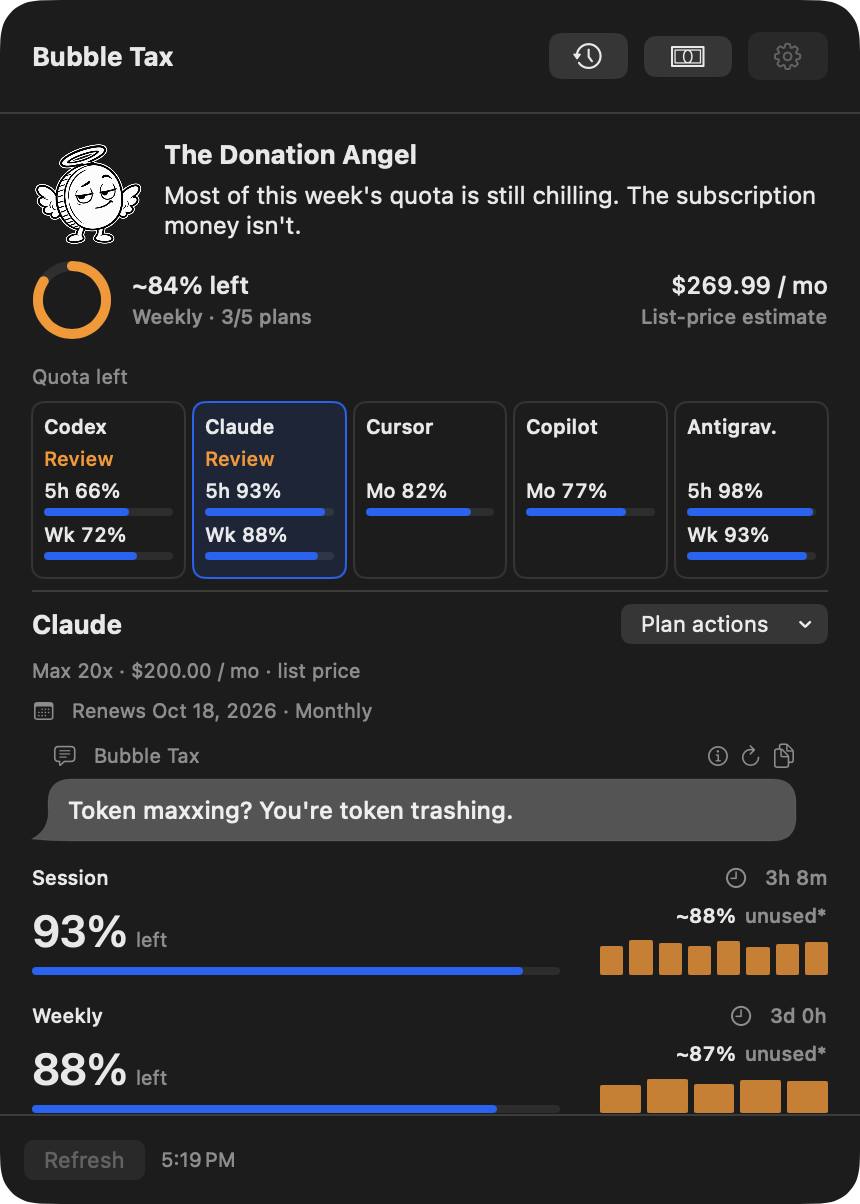
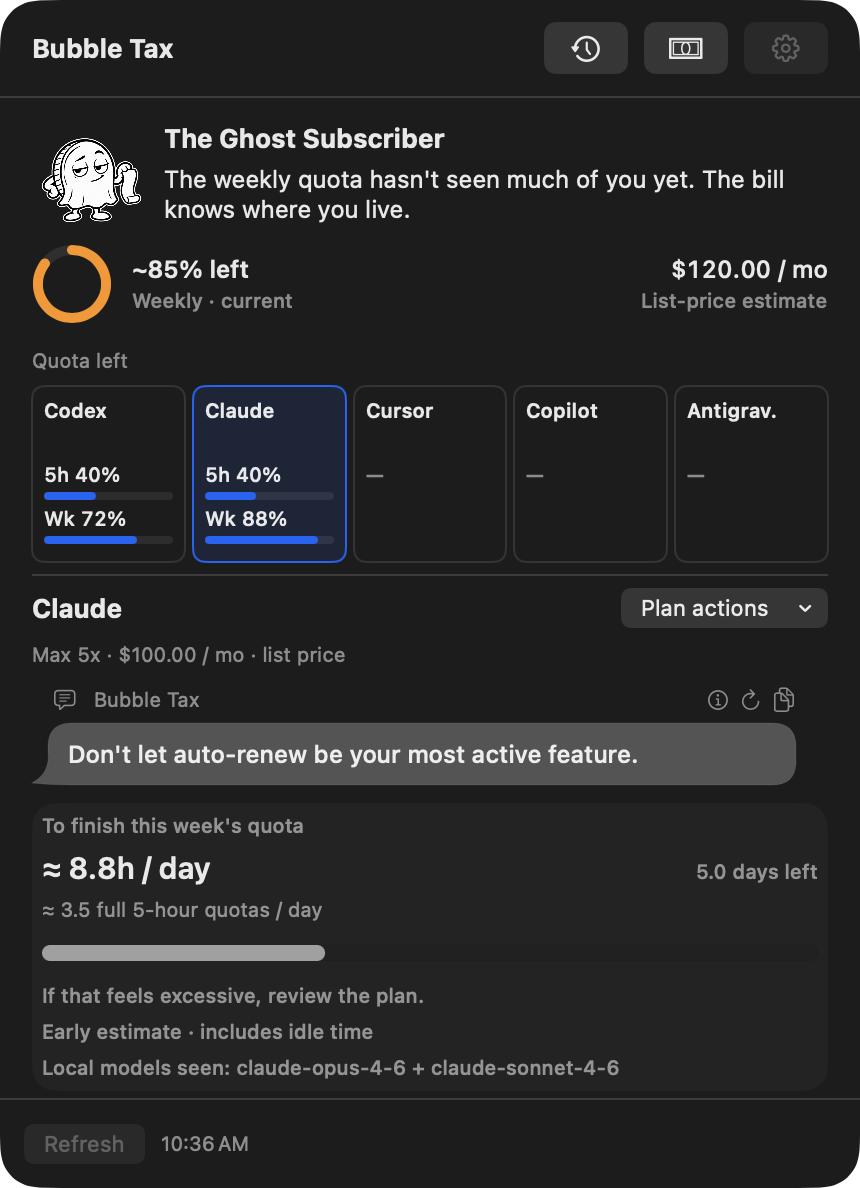
Show weekly patterns and Claude and Codex model windows

diff --git a/index.html b/index.html
@@ -10,9 +10,9 @@
   <meta property="og:type" content="website">
   <meta property="og:site_name" content="Bubble Tax">
   <meta property="og:locale" content="en_US">
-  <meta property="og:url" content="https://bubble-tax.github.io/">
-  <meta property="og:image" content="https://bubble-tax.github.io/assets/bubble-tax-og.png">
-  <meta property="og:image:secure_url" content="https://bubble-tax.github.io/assets/bubble-tax-og.png">
+  <meta property="og:url" content="https://subrip-ai-bubble.workromancer.chatgpt.site/">
+  <meta property="og:image" content="https://subrip-ai-bubble.workromancer.chatgpt.site/assets/bubble-tax-og.png">
+  <meta property="og:image:secure_url" content="https://subrip-ai-bubble.workromancer.chatgpt.site/assets/bubble-tax-og.png">
   <meta property="og:image:type" content="image/png">
   <meta property="og:image:width" content="1200">
   <meta property="og:image:height" content="630">
@@ -20,9 +20,9 @@
   <meta name="twitter:card" content="summary_large_image">
   <meta name="twitter:title" content="Bubble Tax — Stop sponsoring the AI bubble.">
   <meta name="twitter:description" content="A Mac menu-bar app for AI plans you pay for and barely use.">
-  <meta name="twitter:image" content="https://bubble-tax.github.io/assets/bubble-tax-og.png">
+  <meta name="twitter:image" content="https://subrip-ai-bubble.workromancer.chatgpt.site/assets/bubble-tax-og.png">
   <meta name="twitter:image:alt" content="Bubble Tax: Stop sponsoring the AI bubble. A black-and-white cartoon coin holds an inflated bubble beside the headline.">
-  <link rel="canonical" href="https://bubble-tax.github.io/">
+  <link rel="canonical" href="https://subrip-ai-bubble.workromancer.chatgpt.site/">
   <title>Bubble Tax — Stop sponsoring the AI bubble.</title>
   <link rel="icon" href="assets/donationAngel.png" type="image/png">
   <script>
@@ -34,7 +34,7 @@
   </script>
   <link rel="stylesheet" href="styles.css?v=f3dad65fe42a">
   <script src="config.js?v=0102d97d03a5" defer></script>
-  <script src="app.js?v=d9e8697df3fd" defer></script>
+  <script src="app.js?v=5114969814cf" defer></script>
 </head>
 <body>
   <a class="skip" href="#main">Skip to content</a>
@@ -67,7 +67,7 @@
           </div>
           <div class="mac-wallpaper" aria-hidden="true"></div>
           <div id="mac-popover" class="mac-popover">
-            <button class="image-button" data-image="assets/overview.png" data-caption="Overview — actual macOS app, sample data." aria-label="Enlarge the actual macOS overview screenshot"><img class="app-capture" data-light="assets/overview.png" data-dark="assets/overview-dark.png" src="assets/overview.png" alt="Bubble Tax on macOS showing current weekly quota left and multiple AI subscriptions." width="860" height="1204" fetchpriority="high"></button>
+            <button class="image-button" data-image="assets/overview.png" data-caption="Overview — actual macOS app, sample data." aria-label="Enlarge the actual macOS overview screenshot"><img class="app-capture" data-light="assets/overview.png" data-dark="assets/overview-dark.png" src="assets/overview.png" alt="Bubble Tax on macOS showing current weekly quota left and multiple AI subscriptions." width="860" height="1188" fetchpriority="high"></button>
           </div>
         </div>
         <figcaption>Actual app capture. Sample data. <span>Paid plans flip every 8 seconds. Click to open or close.</span></figcaption>
@@ -77,25 +77,26 @@
     <section id="inside" class="inside wrap" aria-labelledby="inside-title">
       <h2 id="inside-title">A look inside</h2>
       <div class="tour-tabs" role="group" aria-label="Choose an app screenshot">
-        <button class="tour-tab active" data-screen="savings" aria-pressed="true">Savings</button>
-        <button class="tour-tab" data-screen="downgrade" aria-pressed="false">Smaller plans</button>
-        <button class="tour-tab" data-screen="overview" aria-pressed="false">Overview</button>
+        <button class="tour-tab active" data-screen="weekly-pattern" aria-pressed="true">Weekly pattern</button>
+        <button class="tour-tab" data-screen="model-windows" aria-pressed="false">Codex windows</button>
+        <button class="tour-tab" data-screen="claude-windows" aria-pressed="false">Claude windows</button>
         <button class="tour-tab" data-screen="unused-history" aria-pressed="false">Unused history</button>
-        <button class="tour-tab" data-screen="details" aria-pressed="false">Past resets</button>
+        <button class="tour-tab" data-screen="downgrade" aria-pressed="false">Smaller plans</button>
+        <button class="tour-tab" data-screen="savings" aria-pressed="false">Savings</button>
         <button class="tour-tab" data-screen="connections" aria-pressed="false">Connections</button>
         <button class="tour-tab" data-screen="enterprise" aria-pressed="false">Work accounts</button>
       </div>
       <div class="app-tour">
         <div class="tour-copy">
           <div class="tour-description" aria-live="polite" aria-atomic="true">
-            <h3 id="tour-title">A smaller monthly bill.</h3>
-            <p id="tour-body">Record your completed cancellations and downgrades. Before-and-after prices show the monthly difference.</p>
-            <p id="tour-note" class="tour-note">Projected list-price reduction, not cash already recovered.</p>
+            <h3 id="tour-title">Your subscription needs a second job.</h3>
+            <p id="tour-body">See the daily pace needed to finish your remaining weekly quota. If keeping up sounds like work, the smaller plan might be enough.</p>
+            <p id="tour-note" class="tour-note">Claude and Codex · an estimate from observed use, including idle time. Too little data stays unknown.</p>
           </div>
         </div>
         <figure class="tour-shot">
-          <button id="tour-image-button" class="image-button" data-image="assets/savings.png" data-caption="Savings — actual macOS app, sample data." aria-label="Enlarge the selected app screenshot"><img id="tour-image" class="app-capture" data-light="assets/savings.png" data-dark="assets/savings-dark.png" src="assets/savings.png" alt="Bubble Tax savings history on macOS, showing a lower monthly bill after recorded plan changes with sample data." width="910" height="1260"></button>
-          <figcaption><span id="shot-label">Savings</span><span>Sample data · click for original</span></figcaption>
+          <button id="tour-image-button" class="image-button" data-image="assets/weekly-pattern.png" data-caption="Weekly pattern — actual macOS app, sample data." aria-label="Enlarge the selected app screenshot"><img id="tour-image" class="app-capture" data-light="assets/weekly-pattern.png" data-dark="assets/weekly-pattern-dark.png" src="assets/weekly-pattern.png" alt="Bubble Tax on macOS estimating 7.2 hours per day to finish the weekly Codex quota, with sample data." width="860" height="1188"></button>
+          <figcaption><span id="shot-label">Weekly pattern</span><span>Sample data · click for original</span></figcaption>
         </figure>
       </div>
       <details class="data-note"><summary>About the data</summary><p>The app reads available usage through your signed-in provider sessions, with local Claude / Codex records as fallback. Claude and Codex window history adds local model context. The main screen estimates the daily pattern needed to finish your weekly quota. Usage history and completed-change records stay on your Mac. Missing readings stay unknown; Codex quota doesn't represent every ChatGPT feature.</p><p>Prices are published US monthly list prices, not your invoice. Savings are projected rate reductions. You cancel or downgrade with the provider, then record the change here. Work budgets stay out of personal savings.</p></details>

diff --git a/app.js b/app.js
@@ -1,5 +1,8 @@
 (() => {
   const screens = {
+    "weekly-pattern": {title: "Your subscription needs a second job.", body: "See the daily pace needed to finish your remaining weekly quota. If keeping up sounds like work, the smaller plan might be enough.", note: "Claude and Codex · an estimate from observed use, including idle time. Too little data stays unknown.", label: "Weekly pattern"},
+    "model-windows": {title: "Five hours. One weekly budget.", body: "Follow how each Claude or Codex window draws down the weekly meter. See the local model mix alongside the recorded changes.", note: "Token counts add context; they don't reveal a provider's exact quota formula.", label: "Codex windows"},
+    "claude-windows": {title: "Same window. Different models.", body: "Compare Claude windows with their local model mix. Check whether similar short-window usage made a different dent in the weekly limit.", note: "Observed meter changes, with input, output and cache details available in the app.", label: "Claude windows"},
     "unused-history": {title: "The quota you left behind.", body: "Browse recorded resets across your subscriptions. See unused quota over time, with weekly and session limits kept separate.", note: "Only observed near-reset readings count. Missing periods aren't guessed.", label: "Unused history"},
     overview: {title: "The plans you're keeping.", body: "See current quota left across your AI services. Plans with repeated unused headroom move to the front for review.", note: "Current remaining quota isn't expired waste.", label: "Overview"},
     details: {title: "What went unused.", body: "See the quota left near past resets. A few quiet hours aren't enough to label a whole subscription a waste.", note: "Weekly and session limits stay separate.", label: "Past resets"},
